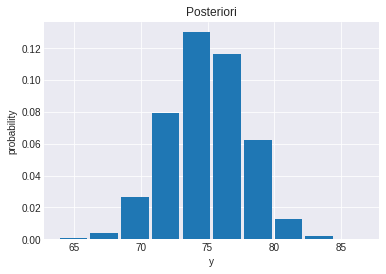
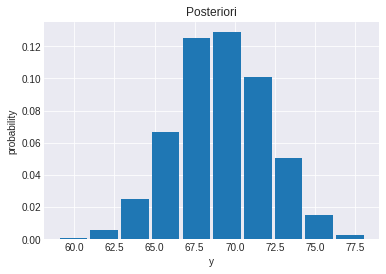
Update documentation

diff --git a/searchindex.js b/searchindex.js
@@ -1,1 +1,1 @@
-Search.setIndex({docnames:["README","cover","stan__quick_references"],envversion:{"sphinx.domains.c":2,"sphinx.domains.changeset":1,"sphinx.domains.citation":1,"sphinx.domains.cpp":4,"sphinx.domains.index":1,"sphinx.domains.javascript":2,"sphinx.domains.math":2,"sphinx.domains.python":3,"sphinx.domains.rst":2,"sphinx.domains.std":2,"sphinx.ext.intersphinx":1,sphinx:56},filenames:["README.md","cover.md","stan__quick_references.ipynb"],objects:{},objnames:{},objtypes:{},terms:{"0":2,"10":2,"100":2,"1000":2,"1093":2,"12":2,"15":2,"307":2,"31":2,"32":2,"34694533264366":[],"3i":2,"42":2,"60":2,"64":2,"69":[],"70":2,"71442871378558":[],"74":2,"77":2,"8":2,"81880080518008":2,"9":2,"91283118418647":2,"94":2,"96":[],"\u00e9":2,"boolean":2,"byte":2,"case":2,"default":2,"do":2,"est\u00e1":2,"function":2,"import":2,"int":2,"n\u00e3o":2,"p\u00e1gina":2,"par\u00e2metro":2,"return":2,"static":2,"true":2,"v\u00e1ri\u00e1vel":2,"vari\u00e1vel":2,"vers\u00e3o":2,A:2,And:2,For:2,If:2,Is:2,It:2,No:2,Not:2,The:2,There:2,To:2,accuraci:2,affin:2,aid:2,all:2,allow:2,alpha:2,also:2,an:2,ani:2,anoth:2,ant:2,appli:2,ar:2,argument:2,arrai:[],ascend:2,automaticali:2,b:2,been:2,befor:2,better:2,between:2,bit:2,block:2,both:2,bound:2,build:2,c:2,call:2,can:2,check:2,choleski:[],cholesky_factor_corr:2,cholesky_factor_cov:2,code:2,column:2,comando:2,comparison:2,compil:2,complex_matrix:2,complex_row_vector:2,complex_vector:2,compon:2,cond:2,constant:2,constrain:[],constraint:2,contain:2,content:2,copi:2,corr_matrix:2,correl:[],could:2,cov_matrix:2,covari:[],cut:2,d:2,dado:2,darkgrid:2,data1:2,de:2,decim:2,defin:2,definida:2,definit:[],densiti:2,depend:2,diagon:2,digit:2,dimension:2,directli:2,doc:2,don:2,effici:2,els:2,emploi:2,entri:2,equival:2,erro:2,error:2,ess:2,essa:2,estrutura:2,ever:2,everi:2,exampl:2,exclud:2,exist:2,exponenti:2,express:[],factor:[],fals:2,file:2,first:2,flag:2,flatten:2,foi:2,foral:2,forc:2,form:2,format:2,from:2,gener:2,get_imag:2,get_real:2,great:2,ha:2,have:2,help:2,hist:2,html:2,http:2,i:2,ignor:2,im:2,imaginari:2,include_alpha:2,indent:2,infer:2,infinit:2,instanc:2,integ:2,intern:2,just:2,k:2,l:2,label:2,larger:2,lb:2,len:2,length:2,like:2,limit:2,line:2,ll:2,log_p:2,logist:2,lower:2,m:2,made:2,make:2,mathbb:2,mathcal:2,matplotlib:2,matric:[],max:2,mc:2,mean:2,medida:2,min:2,model:2,model_data1:2,more:2,mu:2,multipli:2,my:2,n:2,n_miss:2,n_observ:2,na:2,need:2,neg:2,negative_infinti:2,nest_asyncio:2,non:2,norm:2,normal:2,np:2,num_chain:2,num_sampl:2,number:2,numpi:2,object:2,observ:2,observada:2,oderd:2,offset:2,often:2,omega:2,onc:2,onli:2,oper:2,option:2,order:[],org:2,other:2,output:2,own:2,p:2,panda:2,paramet:2,pd:2,phi:2,plt:2,point:2,posit:[],positive_infin:2,positive_ord:2,posteriori:2,postion:2,precis:2,print:2,probabl:2,process:2,product:2,programm:2,promot:2,propag:2,provid:2,pyplot:2,pystan:2,quantiti:2,que:2,quick:0,r:2,rank:2,re:2,rea:2,real:2,receiv:2,refer:0,regress:2,replac:2,repres:2,result:2,results_data1:2,results_data1_mu:2,results_data1_sigma:2,rho:2,rm:2,rodar:2,row:[],row_vector:2,rv:2,rwidth:2,s:2,same:2,sampl:2,scipi:2,seaborn:2,set:2,should:2,show:2,sigma:2,simpl:2,simplex:2,slightli:2,soft:2,sort:2,sr2:2,stan_data1:2,stat:2,strong:2,structur:2,style:[],support:2,symmetr:2,t:2,than:2,them:2,theoric:2,theta:2,thi:2,three:2,time:2,titl:2,top:2,transform:2,transpos:2,triangular:2,two:2,u:2,unconstrain:2,unit:[],unit_vector:2,until:2,upper:2,us:2,v:2,valid:2,valu:2,we:2,where:2,writer:2,x:2,xlabel:2,y:2,ylabel:2,z:2},titles:["Stan","Stan","Stan -  Reference Manual"],titleterms:{"1":2,"2":2,"3":2,"4":2,"5":2,"6":2,"char":2,access:2,arrai:2,assign:2,choleski:2,comment:2,complex:2,constrain:2,correl:2,covari:2,data:2,datatyp:2,declar:2,definit:2,element:2,express:2,factor:2,includ:2,index:2,manual:2,matric:2,matrix:2,numer:2,order:2,overview:2,posit:2,primit:2,refer:2,restrict:2,row:2,scalar:2,semi:2,size:2,stan:[0,1,2],style:2,type:2,unit:2,variabl:2,vector:2,whitespac:2}})
+Search.setIndex({docnames:["README","cover","stan__quick_references"],envversion:{"sphinx.domains.c":2,"sphinx.domains.changeset":1,"sphinx.domains.citation":1,"sphinx.domains.cpp":4,"sphinx.domains.index":1,"sphinx.domains.javascript":2,"sphinx.domains.math":2,"sphinx.domains.python":3,"sphinx.domains.rst":2,"sphinx.domains.std":2,"sphinx.ext.intersphinx":1,sphinx:56},filenames:["README.md","cover.md","stan__quick_references.ipynb"],objects:{},objnames:{},objtypes:{},terms:{"0":2,"03131612688256":2,"10":2,"100":2,"1000":2,"1093":2,"12":2,"12781475816588":2,"15":2,"307":2,"31":2,"32":2,"3i":2,"42":2,"60":2,"64":2,"69":2,"70":2,"77":2,"8":2,"9":2,"93":2,"\u00e9":2,"boolean":2,"byte":2,"case":2,"default":2,"do":2,"est\u00e1":2,"function":2,"import":2,"int":2,"n\u00e3o":2,"p\u00e1gina":2,"par\u00e2metro":2,"return":2,"static":2,"true":2,"v\u00e1ri\u00e1vel":2,"vari\u00e1vel":2,"vers\u00e3o":2,A:2,And:2,For:2,If:2,Is:2,It:2,No:2,Not:2,The:2,There:2,To:2,accuraci:2,affin:2,aid:2,all:2,allow:2,alpha:2,also:2,an:2,ani:2,anoth:2,ant:2,appli:2,ar:2,argument:2,ascend:2,automaticali:2,b:2,been:2,befor:2,better:2,between:2,bit:2,block:2,both:2,bound:2,build:2,c:2,call:2,can:2,check:2,cholesky_factor_corr:2,cholesky_factor_cov:2,code:2,column:2,comando:2,comparison:2,compil:2,complex_matrix:2,complex_row_vector:2,complex_vector:2,compon:2,cond:2,constant:2,constraint:2,contain:2,content:2,copi:2,corr_matrix:2,could:2,cov_matrix:2,cut:2,d:2,dado:2,darkgrid:2,data1:2,de:2,decim:2,defin:2,definida:2,densiti:2,depend:2,diagon:2,digit:2,dimension:2,directli:2,doc:2,don:2,effici:2,els:2,emploi:2,entri:2,equival:2,erro:2,error:2,ess:2,essa:2,estrutura:2,ever:2,everi:2,exampl:2,exclud:2,exist:2,exponenti:2,fals:2,file:2,first:2,flag:2,flatten:2,foi:2,foral:2,forc:2,form:2,format:2,from:2,gener:2,get_imag:2,get_real:2,great:2,ha:2,have:2,help:2,hist:2,html:2,http:2,i:2,ignor:2,im:2,imaginari:2,include_alpha:2,indent:2,infer:2,infinit:2,instanc:2,integ:2,intern:2,just:2,k:2,l:2,label:2,larger:2,lb:2,len:2,length:2,like:2,limit:2,line:2,ll:2,log_p:2,logist:2,lower:2,m:2,made:2,make:2,mathbb:2,mathcal:2,matplotlib:2,max:2,mc:2,mean:2,medida:2,min:2,model:2,model_data1:2,more:2,mu:2,multipli:2,my:2,n:2,n_miss:2,n_observ:2,na:2,need:2,neg:2,negative_infinti:2,nest_asyncio:2,non:2,norm:2,normal:2,np:2,num_chain:2,num_sampl:2,number:2,numpi:2,object:2,observ:2,observada:2,oderd:2,offset:2,often:2,omega:2,onc:2,onli:2,oper:2,option:2,org:2,other:2,output:2,own:2,p:2,panda:2,paramet:2,pd:2,phi:2,plt:2,point:2,positive_infin:2,positive_ord:2,posteriori:2,postion:2,precis:2,print:2,probabl:2,process:2,product:2,programm:2,promot:2,propag:2,provid:2,pyplot:2,pystan:2,quantiti:2,que:2,quick:0,r:2,rank:2,re:2,rea:2,real:2,receiv:2,refer:0,regress:2,replac:2,repres:2,result:2,results_data1:2,results_data1_mu:2,results_data1_sigma:2,rho:2,rm:2,rodar:2,row_vector:2,rv:2,rwidth:2,s:2,same:2,sampl:2,scipi:2,seaborn:2,set:2,should:2,show:2,sigma:2,simpl:2,simplex:2,slightli:2,soft:2,sort:2,sr2:2,stan_data1:2,stat:2,strong:2,structur:2,support:2,symmetr:2,t:2,than:2,them:2,theoric:2,theta:2,thi:2,three:2,time:2,titl:2,top:2,transform:2,transpos:2,triangular:2,two:2,u:2,unconstrain:2,unit_vector:2,until:2,upper:2,us:2,v:2,valid:2,valu:2,we:2,where:2,writer:2,x:2,xlabel:2,y:2,ylabel:2,z:2},titles:["Stan","Stan","Stan -  Reference Manual"],titleterms:{"1":2,"2":2,"3":2,"4":2,"5":2,"6":2,"char":2,access:2,arrai:2,assign:2,choleski:2,comment:2,complex:2,constrain:2,correl:2,covari:2,data:2,datatyp:2,declar:2,definit:2,element:2,express:2,factor:2,includ:2,index:2,manual:2,matric:2,matrix:2,numer:2,order:2,overview:2,posit:2,primit:2,refer:2,restrict:2,row:2,scalar:2,semi:2,size:2,stan:[0,1,2],style:2,type:2,unit:2,variabl:2,vector:2,whitespac:2}})

diff --git a/stan__quick_references.html b/stan__quick_references.html
@@ -448,8 +448,8 @@
 </div>
 </div>
 <div class="cell_output docutils container">
-<div class="output stream highlight-myst-ansi notranslate"><div class="highlight"><pre><span></span>Inference of mu:  74.91283118418647  - Real value:  70
-Inference of sigma:  94.81880080518008  - Real value:  100
+<div class="output stream highlight-myst-ansi notranslate"><div class="highlight"><pre><span></span>Inference of mu:  69.12781475816588  - Real value:  70
+Inference of sigma:  93.03131612688256  - Real value:  100
 </pre></div>
 </div>
 <img alt="_images/stan__quick_references_5_1.png" src="_images/stan__quick_references_5_1.png" />
